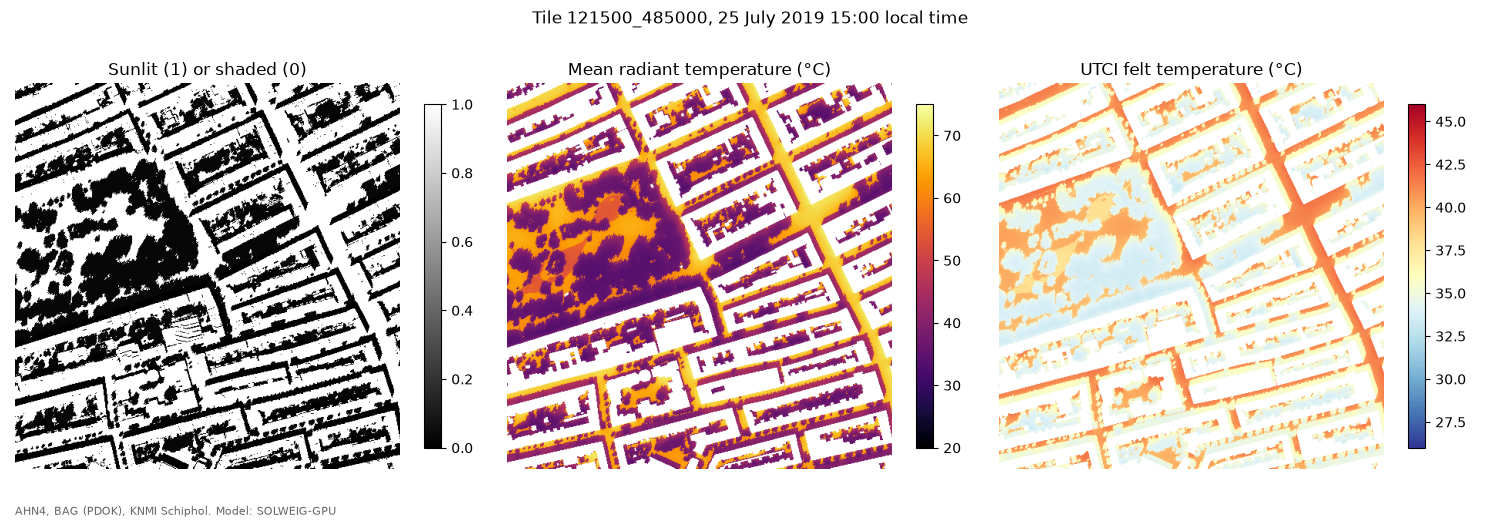
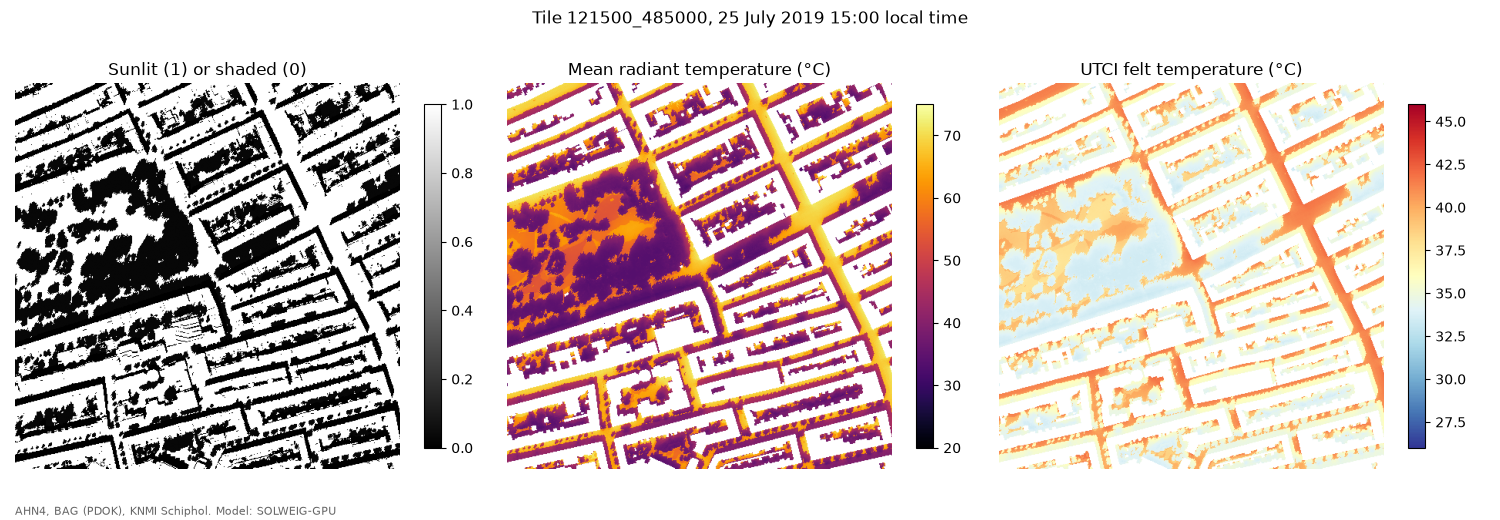
Leaf-on trees from the city's summer photo and tree register
The national aerial photos are leaf-off, but Gemeente Amsterdam's 2023 colour
infrared flight is a summer flight. Trees are now AHN canopy confirmed by its
summer NDVI, plus register trees that AHN missed (mostly young ones), drawn
with their register height class. Register coverage on the De Pijp tile goes
from 90% to 97%, facade slivers that AHN saw as tall objects are gone, and
park lawns are now classed as grass.

Also: GPU and CPU benchmark at 1 m and 0.5 m (1.2x and 4.6x faster on the
Mac GPU), notes on imagery and validation sources, and the text of the Metal
issue opened upstream.

diff --git a/src/amsterdam_heat/tile_inputs.py b/src/amsterdam_heat/tile_inputs.py
@@ -7,14 +7,19 @@ Outputs on one common 1 m grid in EPSG:28992:
 - Trees.tif         vegetation height above ground (m), 0 where no tree
 - Landcover.tif     UMEP classes: 1 paved, 2 building, 5 grass, 7 water
 
-Trees are taken from the AHN surface height outside building footprints. Thin
-objects (lamp posts, signs) and slivers along facades are removed with a size
-filter and a one pixel buffer around footprints.
+Trees come from three sources:
 
-The national aerial photos are flown in early spring, when deciduous trees are
-bare, so NDVI from them misses most street trees. NDVI is only used here to mark
-grass. Summer canopy needs another source (tree register, summer imagery or a
-canopy height model).
+1. AHN surface height outside building footprints (canopy height), with a size
+   filter against lamp posts and a one pixel buffer against facade slivers.
+2. A leaf-on summer colour infrared photo (Gemeente Amsterdam infrarood2023).
+   Tall AHN objects that are not green in summer are dropped.
+3. The municipal tree register. Register trees with no AHN canopy nearby (mostly
+   young trees planted after the LiDAR flight) are drawn as round crowns with the
+   height of their register height class, only where the summer photo is green.
+
+The national PDOK aerial photos are flown in early spring when deciduous trees
+are bare, so they are not used for vegetation. On the first tile AHN alone found
+90% of register trees and the summer NDVI 98%.
 
 Elevations are lifted by ELEVATION_OFFSET. SOLWEIG, like UMEP, uses 0 in the
 vegetation surface to mean "no tree", so ground below 0 m (most of Amsterdam
@@ -61,8 +66,12 @@ class TileSpec:
         return from_origin(xmin, ymax, self.res, self.res)
 
     @property
-    def name(self) -> str:
+    def corner(self) -> str:
         return f"{int(self.xmin)}_{int(self.ymin)}"
+
+    @property
+    def name(self) -> str:
+        return self.corner if self.res == 1.0 else f"{self.corner}_r{self.res:g}"
 
 
 def _block(a: np.ndarray, k: int, how: str) -> np.ndarray:
@@ -81,6 +90,47 @@ def _read(path: Path, spec: TileSpec, band: int | None = 1) -> np.ndarray:
     return a
 
 
+# midpoints of the register height classes (m)
+HEIGHT_CLASS = {"a": 4.0, "b": 7.5, "c": 10.5, "d": 13.5, "e": 16.5, "f": 21.0, "g": 26.0}
+
+
+def add_register_trees(
+    trees: np.ndarray,
+    register_path: Path,
+    spec: TileSpec,
+    ndvi: np.ndarray,
+    blocked: np.ndarray,
+    search: float = 2.0,
+    min_leaf_ndvi: float = 0.2,
+) -> np.ndarray:
+    """Add register trees that have no canopy within ``search`` metres.
+
+    Crown radius is a rough allometry, 1 m plus a quarter of the height, and the
+    crown is clipped to pixels that are green in the summer photo.
+    """
+    reg = gpd.read_file(register_path).set_crs(CRS, allow_override=True)
+    rows, cols = rasterio.transform.rowcol(spec.transform, reg.geometry.x, reg.geometry.y)
+    rows, cols = np.asarray(rows), np.asarray(cols)
+    n_rows, n_cols = trees.shape
+    has_canopy = binary_dilation(trees > 0, iterations=max(1, round(search / spec.res)))
+    yy, xx = np.mgrid[0:n_rows, 0:n_cols]
+    out = trees.copy()
+    for r, c, cls in zip(rows, cols, reg["boomhoogteklasse_actueel"], strict=True):
+        if not (0 <= r < n_rows and 0 <= c < n_cols) or has_canopy[r, c]:
+            continue
+        h = HEIGHT_CLASS.get(str(cls)[:1]) if cls else None
+        if h is None:
+            continue
+        radius = (1.0 + 0.25 * h) / spec.res
+        r0, r1 = max(0, int(r - radius)), min(n_rows, int(r + radius) + 1)
+        c0, c1 = max(0, int(c - radius)), min(n_cols, int(c + radius) + 1)
+        disc = (yy[r0:r1, c0:c1] - r) ** 2 + (xx[r0:r1, c0:c1] - c) ** 2 <= radius**2
+        leafy = (ndvi[r0:r1, c0:c1] >= min_leaf_ndvi) & ~blocked[r0:r1, c0:c1]
+        window = out[r0:r1, c0:c1]
+        window[disc & leafy] = np.maximum(window[disc & leafy], h)
+    return out
+
+
 def build(
     spec: TileSpec,
     dsm_path: Path,
@@ -89,8 +139,9 @@ def build(
     cir_path: Path,
     out_dir: Path,
     min_tree_height: float = 2.5,
-    min_ndvi: float = 0.15,
+    min_ndvi: float = 0.1,
     min_tree_area: float = 4.0,
+    register_path: Path | None = None,
 ) -> dict[str, Path]:
     out_dir.mkdir(parents=True, exist_ok=True)
     src_res = 0.5
@@ -127,15 +178,17 @@ def build(
     height = np.clip(dsm - dtm, 0, None)
     building_dsm = np.where(bmask, np.maximum(dsm, dtm), dtm)
     near_building = binary_dilation(bmask, iterations=1)
-    tall = ~near_building & ~water & (height >= min_tree_height)
+    tall = ~near_building & ~water & (height >= min_tree_height) & (ndvi >= min_ndvi)
     labels, n = label(tall)
     sizes = np.bincount(labels.ravel(), minlength=n + 1) * spec.res**2
     keep = sizes >= min_tree_area
     keep[0] = False
     trees = np.where(keep[labels], height, 0.0)
+    if register_path is not None:
+        trees = add_register_trees(trees, register_path, spec, ndvi, bmask | water)
 
     landcover = np.ones(spec.shape, dtype="float32")  # paved by default
-    landcover[(ndvi >= min_ndvi + 0.1) & (height < min_tree_height) & ~bmask] = 5
+    landcover[(ndvi >= 0.25) & (height < min_tree_height) & ~bmask] = 5
     landcover[water] = 7
     landcover[bmask] = 2
 

diff --git a/src/amsterdam_heat/sources.py b/src/amsterdam_heat/sources.py
@@ -15,12 +15,16 @@ AHN_WCS = "https://service.pdok.nl/rws/ahn/wcs/v1_0"
 BAG_WFS = "https://service.pdok.nl/lv/bag/wfs/v2_0"
 CIR_WMS = "https://service.pdok.nl/hwh/luchtfotocir/wms/v1_0"
 KNMI_HOURLY = "https://www.daggegevens.knmi.nl/klimatologie/uurgegevens"
+AMS_WMS = "https://map.data.amsterdam.nl/service/"
+AMS_TREES_WFS = "https://api.data.amsterdam.nl/v1/wfs/bomen/"
 
 LICENCES = {
     "ahn": "AHN4, Rijkswaterstaat / Het Waterschapshuis via PDOK, CC0",
     "bag": "BAG, Kadaster via PDOK, CC0",
     "cir": "Luchtfoto Beeldmateriaal Nederland, Kadaster via PDOK, CC BY 4.0",
     "knmi": "KNMI hourly station data, CC BY 4.0",
+    "ams_lufo": "Luchtfoto's Gemeente Amsterdam (Kernregistratie Luchtfoto's), CC BY 4.0",
+    "ams_trees": "Bomen, Gemeente Amsterdam, data.amsterdam.nl",
 }
 
 
@@ -139,4 +143,68 @@ def knmi_hourly(station: int, start_utc: str, end_utc: str, out: Path) -> Path:
     r.raise_for_status()
     out.write_text(r.text)
     _record(out, KNMI_HOURLY, params, LICENCES["knmi"])
+    return out
+
+
+def amsterdam_aerial(
+    bbox: tuple[float, float, float, float], res: float, layer: str, out: Path
+) -> Path:
+    """Gemeente Amsterdam aerial photo (for example ``infrarood2023``, a leaf-on summer
+    colour infrared flight with bands NIR, red, green) as GeoTIFF at ``res`` metres.
+
+    Requested as PNG, so there are no JPEG artefacts in the NDVI.
+    """
+    import io
+
+    import rasterio
+    from PIL import Image
+    from rasterio.transform import from_origin
+
+    xmin, ymin, xmax, ymax = bbox
+    width, height = round((xmax - xmin) / res), round((ymax - ymin) / res)
+    params = {
+        "SERVICE": "WMS",
+        "VERSION": "1.1.1",
+        "REQUEST": "GetMap",
+        "LAYERS": layer,
+        "STYLES": "",
+        "SRS": "EPSG:28992",
+        "BBOX": f"{xmin},{ymin},{xmax},{ymax}",
+        "WIDTH": width,
+        "HEIGHT": height,
+        "FORMAT": "image/png",
+    }
+    r = _get(AMS_WMS, params)
+    if not r.headers.get("Content-Type", "").startswith("image/png"):
+        raise RuntimeError(f"Amsterdam WMS returned {r.headers.get('Content-Type')}: {r.text[:300]}")
+    img = np.asarray(Image.open(io.BytesIO(r.content)).convert("RGB")).transpose(2, 0, 1)
+    with rasterio.open(
+        out, "w", driver="GTiff", width=width, height=height, count=3, dtype="uint8",
+        crs="EPSG:28992", transform=from_origin(xmin, ymax, res, res), compress="deflate",
+    ) as dst:
+        dst.write(img)
+    _record(out, AMS_WMS, params, LICENCES["ams_lufo"])
+    return out
+
+
+def amsterdam_trees(bbox: tuple[float, float, float, float], out: Path) -> Path:
+    """Municipal tree register (stamgegevens) inside the box, GeoJSON points in EPSG:28992.
+
+    Only trees managed by the Gemeente; private garden trees are not in it.
+    """
+    xmin, ymin, xmax, ymax = bbox
+    crs = "urn:ogc:def:crs:EPSG::28992"
+    params = {
+        "SERVICE": "WFS",
+        "VERSION": "2.0.0",
+        "REQUEST": "GetFeature",
+        "TYPENAMES": "stamgegevens",
+        "BBOX": f"{xmin},{ymin},{xmax},{ymax},{crs}",
+        "SRSNAME": crs,
+        "OUTPUTFORMAT": "geojson",
+        "COUNT": 50000,
+    }
+    r = _get(AMS_TREES_WFS, params)
+    out.write_text(r.text)
+    _record(out, AMS_TREES_WFS, params, LICENCES["ams_trees"])
     return out

diff --git a/scripts/make_tile.py b/scripts/make_tile.py
@@ -22,12 +22,15 @@ def main() -> None:
     ap.add_argument("--y", type=float, required=True, help="tile lower left y, RD New (m)")
     ap.add_argument("--date", required=True, help="local date YYYY-MM-DD")
     ap.add_argument("--res", type=float, default=1.0)
-    ap.add_argument("--cir-layer", default="2025_orthoHRIR")
+    ap.add_argument(
+        "--cir-layer", default="infrarood2023",
+        help="Gemeente Amsterdam infrared layer; infrarood2023 is the leaf-on summer flight",
+    )
     ap.add_argument("--station", type=int, default=240, help="KNMI station, 240 = Schiphol")
     args = ap.parse_args()
 
     spec = TileSpec(args.x, args.y, res=args.res)
-    raw = ROOT / "data" / "raw" / spec.name
+    raw = ROOT / "data" / "raw" / spec.corner
     raw.mkdir(parents=True, exist_ok=True)
 
     def fetch(path: Path, fn, *a):
@@ -42,8 +45,10 @@ def main() -> None:
     dtm = fetch(raw / "ahn4_dtm_05m.tif", sources.ahn_geotiff, "dtm_05m", spec.bbox)
     bag = fetch(raw / "bag_pand.geojson", sources.bag_footprints, spec.bbox)
     cir = fetch(
-        raw / f"cir_{args.cir_layer}_05m.tif", sources.cir_orthophoto, spec.bbox, 0.5, args.cir_layer
+        raw / f"ams_{args.cir_layer}_025m.tif", sources.amsterdam_aerial, spec.bbox, 0.25,
+        args.cir_layer,
     )
+    register = fetch(raw / "ams_bomen.geojson", sources.amsterdam_trees, spec.bbox)
 
     d = date.fromisoformat(args.date)
     start = (d - timedelta(days=1)).strftime("%Y%m%d") + "20"
@@ -52,7 +57,7 @@ def main() -> None:
                  args.station, start, end)
 
     out = ROOT / "data" / "interim" / spec.name
-    paths = build(spec, dsm, dtm, bag, cir, out)
+    paths = build(spec, dsm, dtm, bag, cir, out, register_path=register)
     met = knmi_to_umep(knmi, args.date, out / f"met_{args.date}.txt")
     for p in [*paths.values(), met]:
         print(f"wrote {p.relative_to(ROOT)}")

diff --git a/scripts/run_solweig.py b/scripts/run_solweig.py
@@ -42,7 +42,7 @@ def main() -> None:
         trees_filename=str(inputs / "Trees.tif"),
         landcover_filename=str(inputs / "Landcover.tif"),
         ERA_5_z0_find=False,
-        tile_size=1000,
+        tile_size=2000,
         overlap=20,
         use_own_met=True,
         own_met_file=str(inputs / f"met_{args.date}.txt"),

diff --git a/README.md b/README.md
@@ -4,7 +4,7 @@ Street-level heat stress and shade for Amsterdam, rebuilt every year from open a
 
 The national felt-temperature map in the Klimaateffectatlas is a good start, but it is built from AHN3, covers a single idealised summer day and cannot answer "what if we plant a tree here?". This project aims to:
 
-1. map the current tree canopy from the latest 5 to 8 cm aerial photos (RGB and near infrared) and compare it with AHN4 and the city tree register,
+1. map the current tree canopy from AHN4, the city's leaf-on summer infrared photo and the municipal tree register,
 2. compute shade, mean radiant temperature and UTCI at 0.5 to 1 m resolution for real heatwave days with SOLWEIG running on a laptop GPU (Apple Metal),
 3. find plantable space from the imagery,
 4. rank candidate tree locations by how much heat stress they remove for vulnerable people (care homes, schools, playgrounds, bus stops, elderly residents).
@@ -36,13 +36,20 @@ uv run python scripts/plot_tile.py --tile 121500_485000 --device mps --hour 15
 The radiation model is SOLWEIG-GPU, used through a fork that adds Apple Silicon (MPS) support:
 `external/solweig-gpu` (branch `apple-mps`). Clone with `git clone --recursive`.
 
-On an M4 MacBook Pro a 700 × 700 m tile at 1 m (500 m plus a 100 m buffer) takes about
-2.3 minutes for a full day on the GPU: about 36 seconds for the sky view factor, which is
-cached and reused for other days, and about 80 seconds for 24 hourly radiation steps.
-GPU and CPU results agree to within 0.001 K
-([validation](docs/validation_121500_485000_mps_vs_cpu.md)).
+Full day (24 hours) for a 700 × 700 m tile on an M4 MacBook Pro, fresh run:
+
+| Resolution | Mac GPU (MPS) | CPU |
+|---|---|---|
+| 1 m (700 × 700 cells) | 2.0 min | 2.4 min |
+| 0.5 m (1400 × 1400 cells) | 9.5 min | 43.9 min |
+
+The sky view factor is cached and reused for other days. GPU and CPU results agree to within
+0.001 K at 1 m ([validation](docs/validation_121500_485000_mps_vs_cpu.md)). Metal support has
+been offered upstream in [nvnsudharsan/SOLWEIG-GPU#138](https://github.com/nvnsudharsan/SOLWEIG-GPU/issues/138).
 
 ![Shade, mean radiant temperature and UTCI in De Pijp, 25 July 2019, 15:00](figures/121500_485000_mps_h15.png)
+
+See [docs/data_sources.md](docs/data_sources.md) for which photos are leaf-on, and the validation data.
 
 ## Layout
 
@@ -65,11 +72,12 @@ All inputs are open data:
 
 | Dataset | Source | Licence |
 |---|---|---|
-| Aerial photos RGB and CIR, 5 to 8 cm, yearly | Beeldmateriaal Nederland via PDOK | CC BY 4.0 |
+| Aerial photo, colour infrared, summer 2023 (leaf-on) | Gemeente Amsterdam (map.data.amsterdam.nl) | CC BY 4.0 |
+| Aerial photos RGB and CIR, 5 to 8 cm, yearly, spring (leaf-off) | Beeldmateriaal Nederland via PDOK | CC BY 4.0 |
 | AHN4 point cloud and DSM/DTM, 0.5 m | Rijkswaterstaat / Het Waterschapshuis via PDOK | CC0 |
 | 3D BAG buildings | TU Delft 3D geoinformation | CC BY 4.0 |
 | BGT large scale topography | Kadaster via PDOK | CC0 |
-| Tree register (Bomen) | Gemeente Amsterdam, data.amsterdam.nl | CC0 / open |
+| Tree register (Bomen) | Gemeente Amsterdam, data.amsterdam.nl | open |
 | Hourly weather | KNMI station Schiphol (240) | CC BY 4.0 |
 | Land surface temperature (validation) | Landsat 8/9 Collection 2 | public domain |
 

diff --git a/docs/data_sources.md b/docs/data_sources.md
@@ -1,0 +1,39 @@
+# Data sources: imagery, trees and validation
+
+What we use, what we checked, and what is still to get. Checked on 2026-10-08.
+
+## Aerial imagery
+
+| Source | Season | Bands | Resolution | Access | Use here |
+|---|---|---|---|---|---|
+| Gemeente Amsterdam `infrarood2023` (map.data.amsterdam.nl WMS) | **Summer, leaf-on** | NIR, red, green | fetched at 0.25 m | open, CC BY 4.0 | **Tree mask (summer NDVI)** |
+| Gemeente Amsterdam `lufo2024` | Summer, leaf-on | RGB | fetched at 0.25 m | open, CC BY 4.0 | Visual checks, RGB tree models (DeepForest) |
+| Gemeente Amsterdam `lufo2025`, `infrarood2018` to `2022` | Spring, mostly leaf-off | RGB / CIR | | open | Not for vegetation |
+| PDOK Beeldmateriaal (national, 2025 and 2026) | Early spring, leaf-off | RGB, CIR | 5 to 8 cm (JPEG only through WMS) | open, CC BY 4.0 | Not for vegetation |
+| NSO Satellietdataportaal (Pleiades Neo, SuperView Neo) | Several times a year, including summer | RGB + NIR | 30 to 50 cm | free for Dutch users after registration, not open data | Option for newer summer canopy than 2023; needs Isma's own account and its terms |
+
+The city WMS serves lossless PNG and GeoTIFF, which matters for NDVI. PDOK only serves JPEG.
+
+On the first tile (De Pijp), seasons checked by eye on the same crop over Sarphatipark: `infrarood2023` and `lufo2024` are fully leafed, `lufo2025` and the PDOK 2025 CIR are bare.
+
+## Trees
+
+| Source | What it gives | Notes |
+|---|---|---|
+| AHN4 DSM minus DTM | Canopy height at 0.5 m | Flown in winter (leaf-off) around 2020 to 2022, so it misses trees planted since and underestimates canopy density |
+| Gemeente tree register (`bomen/stamgegevens`, WFS) | Location, species, height class, planting year | Municipal trees only, no private gardens. 1,308 trees in the first tile |
+| Summer NDVI from `infrarood2023` | Where there are leaves in summer | Used to confirm AHN canopy and to place register trees AHN missed |
+
+First tile result: AHN alone covers 90% of register trees, summer NDVI 98%, and the combined tree layer 97%.
+
+AHN5 is being flown in parts from 2023; check whether the Amsterdam block is released before scaling up.
+
+## Validation
+
+SOLWEIG predicts mean radiant temperature (Tmrt). Air temperature stations only check the weather forcing, not the radiation model, so the useful references are, in order:
+
+1. **UMEP SOLWEIG in QGIS** on the same tile. Independent implementation of the same model, checks our port and inputs.
+2. **WUR / AMS Institute Amsterdam network** (Heusinkveld, Steeneveld): about 30 urban stations and mobile thermal comfort measurements in Amsterdam, including globe or radiation measurements that relate to Tmrt. Needs a data request; also a natural partner when we go to the Gemeente.
+3. **Netatmo citizen stations**: dense, but air temperature only and needs a Netatmo developer account (Isma's own).
+4. **WOW-NL**: KNMI and RMI plan to open the data during 2026; not yet available as a bulk download.
+5. **Landsat land surface temperature** for the broad pattern of hot and cool areas (surface, not air or Tmrt).

diff --git a/docs/best_practices.md b/docs/best_practices.md
@@ -19,7 +19,7 @@ Working rules for this project. Short on purpose.
 ## Known pitfalls (found on the first tile)
 
 - **Ground below sea level.** SOLWEIG, like UMEP, uses 0 in the vegetation surface to mean "no tree". Ground below 0 m NAP then sees phantom vegetation above it and is shaded. Most of Amsterdam is below NAP. `tile_inputs.py` lifts all elevations by `ELEVATION_OFFSET` (20 m), which leaves the physics unchanged. Never feed raw NAP heights to SOLWEIG.
-- **Aerial photos are leaf-off.** The national Beeldmateriaal flights are in early spring, so deciduous trees are bare and NDVI misses most street trees. Do not use spring NDVI to decide where trees are. Use AHN height (with a size filter), the city tree register, or a summer source.
+- **Most aerial photos are leaf-off.** The national Beeldmateriaal flights and most city flights are in early spring, so deciduous trees are bare and NDVI misses most street trees. Use the city's summer infrared flight (`infrarood2023`), which is leaf-on. See docs/data_sources.md.
 - **AHN4 is leaf-off too.** It was flown in winter, so canopy height is fine but canopy density is underestimated. Keep this in mind when comparing shade with summer observations.
 - **BAG GeoJSON from PDOK has RD coordinates but no CRS member.** GeoJSON readers then assume WGS84. Always `set_crs(28992, allow_override=True)`.
 - **PDOK CIR WMS serves JPEG only.** We georeference it from the request box.
